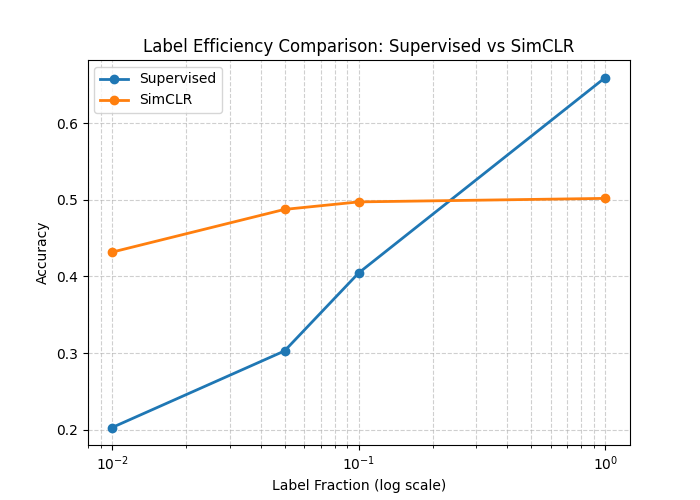
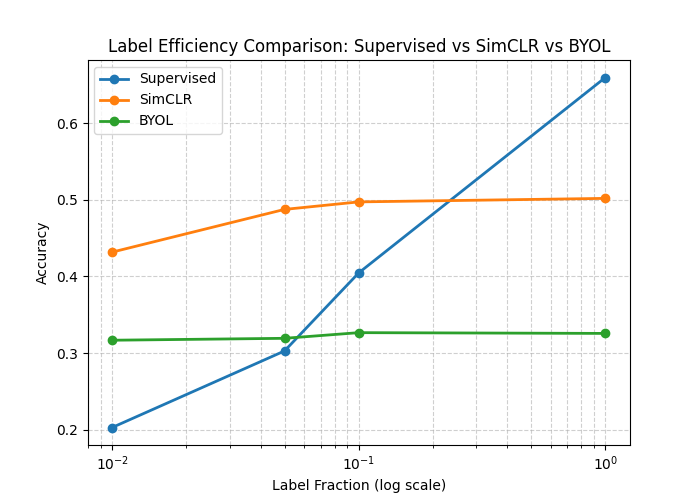
Implemented BYOL and added its results

Changed region(s): [[0.15, 0.06, 0.87, 0.12], [0.15, 0.66, 0.87, 0.69], [0.12, 0.21, 0.33, 0.27]]

diff --git a/methods/byol.py b/methods/byol.py
@@ -1,0 +1,66 @@
+import torch
+import torch.nn as nn
+import timm
+import copy
+
+
+class MLP(nn.Module):
+    def __init__(self, in_dim, hidden_dim=512, out_dim=256):
+        super().__init__()
+        self.net = nn.Sequential(
+            nn.Linear(in_dim, hidden_dim),
+            nn.BatchNorm1d(hidden_dim),
+            nn.ReLU(),
+            nn.Linear(hidden_dim, out_dim)
+        )
+
+    def forward(self, x):
+        return self.net(x)
+
+
+class BYOL(nn.Module):
+    def __init__(self):
+        super().__init__()
+
+        # Online network
+        self.online_encoder = timm.create_model('resnet50', pretrained=False, num_classes=0)
+        self.online_projector = MLP(self.online_encoder.num_features)
+        self.online_predictor = MLP(256, hidden_dim=512, out_dim=256)
+
+        # Target network
+        self.target_encoder = copy.deepcopy(self.online_encoder)
+        self.target_projector = copy.deepcopy(self.online_projector)
+
+        # Freeze target network
+        for p in self.target_encoder.parameters():
+            p.requires_grad = False
+        for p in self.target_projector.parameters():
+            p.requires_grad = False
+
+    def forward(self, x1, x2):
+
+        # Online branch
+        o1 = self.online_encoder(x1)
+        z1 = self.online_projector(o1)
+        p1 = self.online_predictor(z1)
+
+        o2 = self.online_encoder(x2)
+        z2 = self.online_projector(o2)
+        p2 = self.online_predictor(z2)
+
+        # Target branch (no gradients)
+        with torch.no_grad():
+            t1 = self.target_encoder(x1)
+            t_z1 = self.target_projector(t1)
+
+            t2 = self.target_encoder(x2)
+            t_z2 = self.target_projector(t2)
+
+        return p1, p2, t_z1.detach(), t_z2.detach()
+
+    def update_target(self, tau):
+        for online, target in zip(self.online_encoder.parameters(), self.target_encoder.parameters()):
+            target.data = tau * target.data + (1 - tau) * online.data
+
+        for online, target in zip(self.online_projector.parameters(), self.target_projector.parameters()):
+            target.data = tau * target.data + (1 - tau) * online.data

diff --git a/scripts/evaluate_byol.py b/scripts/evaluate_byol.py
@@ -1,0 +1,43 @@
+import torch
+
+from models.resnet import ResNet50
+from datasets.cifar import get_cifar10_eval, get_cifar10
+from evaluation.extract_features import extract_features
+from evaluation.linear_probe import train_linear_probe, evaluate_linear
+
+
+def main():
+
+    device = torch.device("cuda" if torch.cuda.is_available() else "cpu")
+
+    model = ResNet50(num_classes=10).to(device)
+    model.backbone.load_state_dict(torch.load("byol_encoder.pth"))
+    model.eval()
+
+    eval_train_loader, eval_test_loader = get_cifar10_eval()
+
+    test_features, test_labels = extract_features(model, eval_test_loader, device)
+
+    fractions = [1.0, 0.1, 0.01]
+
+    print("\n=== BYOL Evaluation ===\n")
+
+    for frac in fractions:
+
+        train_loader, _ = get_cifar10(label_fraction=frac)
+
+        train_features, train_labels = extract_features(model, train_loader, device)
+
+        classifier = train_linear_probe(train_features, train_labels, num_classes=10)
+
+        acc = evaluate_linear(
+            classifier,
+            test_features.to(device),
+            test_labels.to(device)
+        )
+
+        print(f"{int(frac*100)}%: {acc:.4f}")
+
+
+if __name__ == "__main__":
+    main()

diff --git a/analysis/plot_label_efficiency.py b/analysis/plot_label_efficiency.py
@@ -12,6 +12,7 @@ supervised = np.array([0.6599, 0.4047, 0.3027, 0.2027])
 
 # SimCLR results (aligning with same fractions)
 simclr = np.array([0.5020, 0.4974, 0.4876, 0.4318])
+byol = np.array([0.3256, 0.3266, 0.3192, 0.3167])
 
 # -----------------------------
 # Plotting
@@ -21,11 +22,12 @@ plt.figure(figsize=(7, 5))
 
 plt.plot(fractions, supervised, marker='o', linewidth=2, label='Supervised')
 plt.plot(fractions, simclr, marker='o', linewidth=2, label='SimCLR')
+plt.plot(fractions, byol, marker='o', linewidth=2, label='BYOL')
 
 plt.xscale('log')
 plt.xlabel('Label Fraction (log scale)')
 plt.ylabel('Accuracy')
-plt.title('Label Efficiency Comparison: Supervised vs SimCLR')
+plt.title('Label Efficiency Comparison: Supervised vs SimCLR vs BYOL')
 
 plt.grid(True, which="both", linestyle="--", alpha=0.6)
 plt.legend()
@@ -46,6 +48,8 @@ def compute_les(fractions, accuracies):
 
 les_supervised = compute_les(fractions, supervised)
 les_simclr = compute_les(fractions, simclr)
+les_byol = compute_les(fractions, byol)
 
 print(f"Supervised LES: {les_supervised:.4f}")
 print(f"SimCLR LES: {les_simclr:.4f}")
+print(f"BYOL LES: {les_byol:.4f}")

diff --git a/training/train_byol.py b/training/train_byol.py
@@ -1,0 +1,35 @@
+import torch
+from tqdm import tqdm
+from methods.byol_loss import byol_loss
+import math
+
+
+def train_byol(model, loader, optimizer, device, epoch, total_epochs):
+
+    model.train()
+    total_loss = 0
+
+    for step, (x1, x2) in enumerate(tqdm(loader)):
+
+        x1, x2 = x1.to(device), x2.to(device)
+
+        # Forward pass
+        p1, p2, z1, z2 = model(x1, x2)
+
+        loss = byol_loss(p1, z2) + byol_loss(p2, z1)
+
+        optimizer.zero_grad()
+        loss.backward()
+        optimizer.step()
+
+        # ---- Cosine EMA schedule for tau ----
+        global_step = epoch * len(loader) + step
+        max_steps = total_epochs * len(loader)
+
+        tau = 1 - (1 - 0.99) * (math.cos(math.pi * global_step / max_steps) + 1) / 2
+
+        model.update_target(tau)
+
+        total_loss += loss.item()
+
+    return total_loss / len(loader)

diff --git a/scripts/run_byol.py b/scripts/run_byol.py
@@ -1,0 +1,31 @@
+import torch
+import torch.optim as optim
+from torch.utils.data import DataLoader
+
+from methods.byol import BYOL
+from datasets.simclr_dataset import SimCLRDataset
+from training.train_byol import train_byol
+
+
+def main():
+
+    device = torch.device("cuda" if torch.cuda.is_available() else "cpu")
+
+    dataset = SimCLRDataset()
+    loader = DataLoader(dataset, batch_size=256, shuffle=True, num_workers=4)
+
+    model = BYOL().to(device)
+
+    optimizer = optim.Adam(model.parameters(), lr=1e-3)
+
+    total_epochs = 40
+
+    for epoch in range(total_epochs):
+        loss = train_byol(model, loader, optimizer, device, epoch, total_epochs)
+        print(f"Epoch {epoch}: Loss={loss:.4f}")
+
+    torch.save(model.online_encoder.state_dict(), "byol_encoder.pth")
+
+
+if __name__ == "__main__":
+    main()

diff --git a/methods/augmentations.py b/methods/augmentations.py
@@ -9,5 +9,6 @@ def get_simclr_augmentation(size=32):
             transforms.ColorJitter(0.4, 0.4, 0.4, 0.1)
         ], p=0.8),
         transforms.RandomGrayscale(p=0.2),
+        transforms.GaussianBlur(kernel_size=3),
         transforms.ToTensor(),
     ])

diff --git a/methods/byol_loss.py b/methods/byol_loss.py
@@ -1,0 +1,7 @@
+import torch.nn.functional as F
+
+
+def byol_loss(p, z):
+    p = F.normalize(p, dim=1)
+    z = F.normalize(z, dim=1)
+    return 2 - 2 * (p * z).sum(dim=1).mean()
